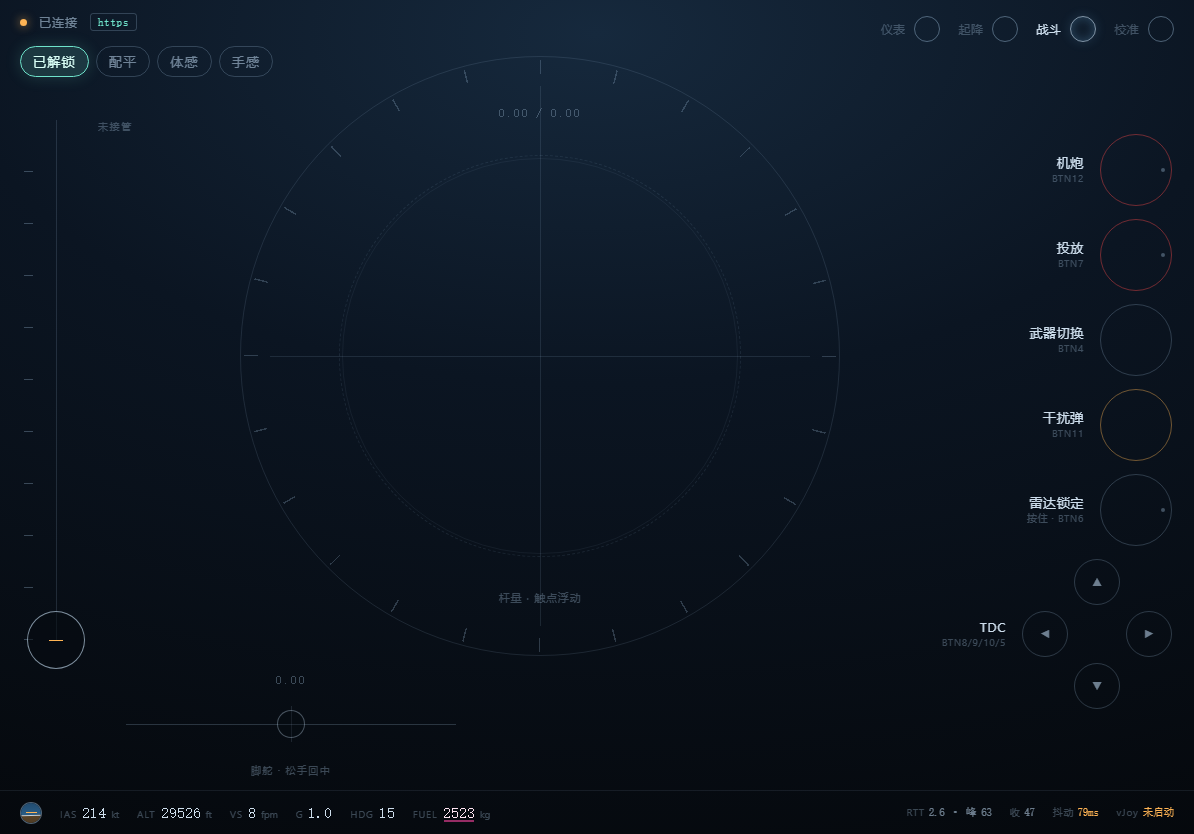
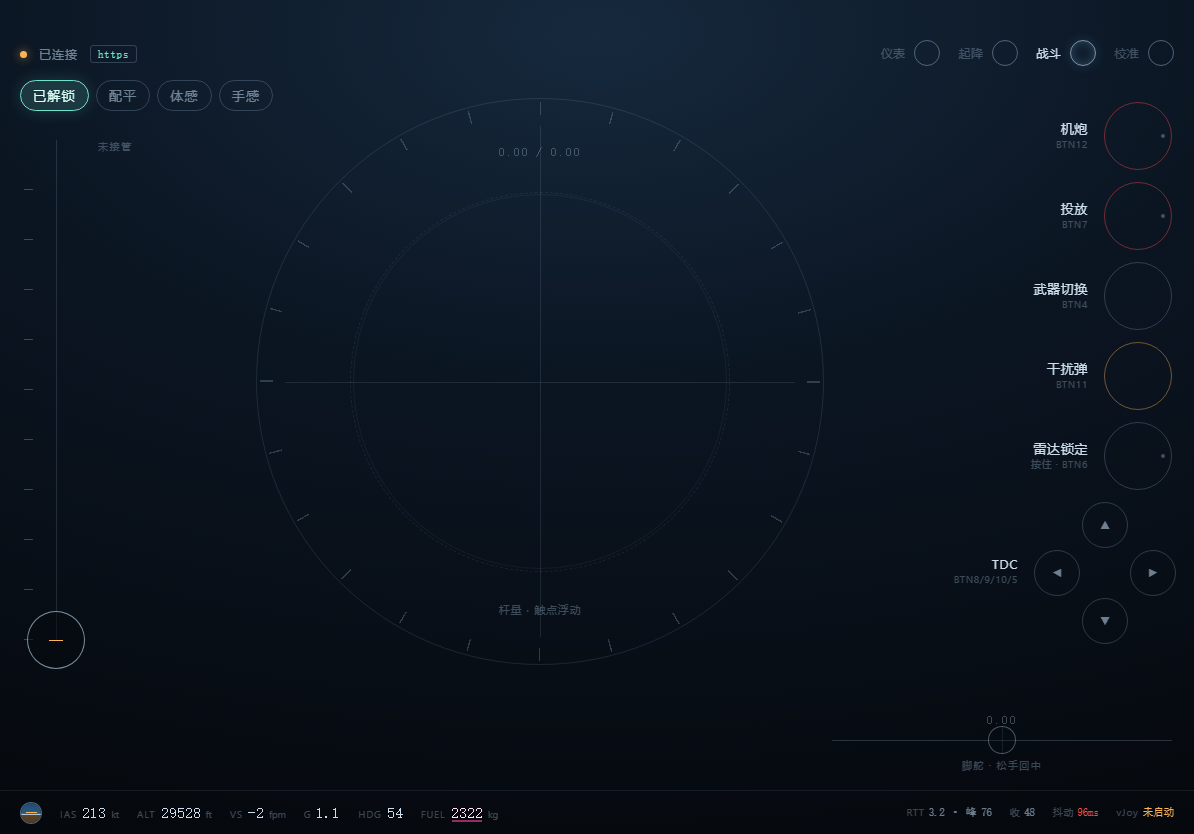
fix(yoke): 脚舵移到右下角，整体下移让开 iPad 状态栏
用户实测：主屏模式下时间和电量把顶上那一行盖住了；另外脚舵在左下会横穿
杆盘的下圆弧，也不符合"左手油门、右手杆和脚舵"的手位。

- 顶部整体下移：状态行 top 0→38、页签 16→40、开关行 46→80、杆盘 top 98。
  留 38px 才稳（iOS 横屏状态栏约 24–28px）。
- 脚舵从 left:126/top:672 改到 right:22/bottom:56，盒子高度 104→76。
  数值和说明改成贴着滑轨定位（top:calc(50% ∓ 26/19px)）—— 盒子矮了之后再
  用原来的 top:2 / bottom:0，数字会飘在离滑轨很远的地方。
- 右列圆按钮 72→68px、间距 13→12，TDC 格 46→42，并改成从 top:102 起排，
  保证战斗页最后一个元素（TDC，止于 638）不撞脚舵（702）。
- 油门条同步下移到 140、高度 500。

新增 4 条断言把这个版位钉住：顶部留出让开状态栏（≥34px）、脚舵贴右下角
（距右边缘 ≤32 且整体在杆盘右边）、脚舵不压按钮列、脚舵不压读数条。

验收 https 70 项 / http 66 项全过。

diff --git a/tools/yoke.html b/tools/yoke.html
@@ -54,7 +54,7 @@ body{ touch-action:none; }
      background:radial-gradient(135% 105% at 50% 4%, #16293d 0%, #0b1522 40%, #05080c 100%); }
 
 /* ---------- 顶部状态 ---------- */
-#hud{ position:absolute; left:0; right:0; top:0; height:44px; display:flex; z-index:12;
+#hud{ position:absolute; left:0; right:0; top:38px; height:32px; display:flex; z-index:12;
       align-items:center; gap:12px; padding:0 20px; pointer-events:none; }
 #dot{ width:7px; height:7px; border-radius:50%; background:rgba(160,180,200,.4); flex:0 0 auto; }
 #dot.ok{ background:var(--cyan); box-shadow:0 0 10px rgba(111,227,203,.8); }
@@ -65,7 +65,7 @@ body{ touch-action:none; }
       border:1px solid var(--line); border-radius:3px; color:var(--ink3); }
 
 /* 页签：一排细圆 + 左置标签，跟那套游戏右上角的功能圆同一套语言 */
-#tabs{ position:absolute; right:20px; top:16px; display:flex; align-items:center; z-index:12;
+#tabs{ position:absolute; right:20px; top:40px; display:flex; align-items:center; z-index:12;
        gap:18px; pointer-events:none; }
 #tabs .tb{ display:flex; align-items:center; gap:9px; background:none; border:0;
            padding:0; pointer-events:auto; color:var(--ink3);
@@ -77,7 +77,7 @@ body{ touch-action:none; }
                 0 0 12px rgba(120,190,240,.16); }
 
 /* ---------- 开关行（原来的顶栏 chip） ---------- */
-#ops{ position:absolute; left:20px; top:46px; display:flex; gap:7px; align-items:center; z-index:12; }
+#ops{ position:absolute; left:20px; top:80px; display:flex; gap:7px; align-items:center; z-index:12; }
 .chip{ font:400 11.5px/1 inherit; letter-spacing:.07em; color:var(--ink2);
        background:transparent; border:1px solid var(--line); border-radius:999px;
        padding:6px 12px; pointer-events:auto; }
@@ -140,7 +140,7 @@ body{ touch-action:none; }
 #app[data-page="pfd"] #deck, #app[data-page="calib"] #deck{ display:none; }
 
 /* 杆盘：同心细圈 + 十字。中心区让给左右两侧的控件，所以不是屏幕正中 */
-#colPad{ position:absolute; left:110px; right:224px; top:56px; height:min(72vh,600px);
+#colPad{ position:absolute; left:110px; right:224px; top:98px; height:min(68vh,580px);
          display:grid; place-items:center; min-width:0; }
 #pad{ position:relative; height:100%; aspect-ratio:1 / 1; max-width:100%; }
 #pad::before{ content:""; position:absolute; inset:0; border-radius:50%;
@@ -172,7 +172,7 @@ body{ touch-action:none; }
 #dotk.on{ opacity:1; }
 
 /* 左：油门（竖条 + 骑在上面的圆徽章，照那套画面的 % 圆做） */
-#thr{ position:absolute; left:24px; top:120px; width:64px; height:520px; }
+#thr{ position:absolute; left:24px; top:140px; width:64px; height:500px; }
 #thr::before{ content:""; position:absolute; left:50%; top:0; bottom:0; width:1px;
               margin-left:-.5px; background:rgba(168,200,228,.16); }
 #ticks{ position:absolute; left:0; top:0; bottom:0; width:9px; pointer-events:none;
@@ -191,24 +191,24 @@ body{ touch-action:none; }
 #thr.idle #thrVal{ color:var(--amber); }
 
 /* 左：脚舵（横条，松手回中） */
-#rud{ position:absolute; left:126px; top:672px; width:330px; height:104px; }
+#rud{ position:absolute; right:22px; bottom:56px; width:340px; height:76px; }
 #rudTrack{ position:absolute; left:0; right:0; top:50%; height:1px; margin-top:-.5px;
            background:rgba(168,200,228,.22); }
-#rudC{ position:absolute; left:50%; top:calc(50% - 18px); height:36px; width:1px;
+#rudC{ position:absolute; left:50%; top:calc(50% - 14px); height:28px; width:1px;
        background:rgba(168,200,228,.14); }
 #rudFill{ position:absolute; top:calc(50% - 1px); height:2px; left:50%; width:0;
           background:var(--blue); box-shadow:0 0 10px rgba(99,200,255,.7); }
 #rudKnob{ position:absolute; top:calc(50% - 14px); height:28px; width:28px; left:50%;
           margin-left:-14px; border-radius:50%; border:1px solid var(--line2);
           background:rgba(5,11,17,.5); }
-#rudVal{ position:absolute; left:0; right:0; top:2px; text-align:center;
+#rudVal{ position:absolute; left:0; right:0; top:calc(50% - 26px); text-align:center;
          font:400 12px/1 var(--mono); letter-spacing:.12em; color:var(--ink3); }
-#rudTag{ position:absolute; left:0; right:0; bottom:0; text-align:center;
+#rudTag{ position:absolute; left:0; right:0; top:calc(50% + 19px); text-align:center;
          font-size:10px; letter-spacing:.14em; color:var(--ink3); }
 
 /* ---------- 右列：圆按钮 + 左置双行标签 ---------- */
-#colTakeoff, #colCombat{ position:absolute; right:22px; top:92px; bottom:84px;
-  flex-direction:column; justify-content:center; align-items:flex-end; gap:13px; }
+#colTakeoff, #colCombat{ position:absolute; right:22px; top:102px;
+  flex-direction:column; justify-content:flex-start; align-items:flex-end; gap:12px; }
 #colTakeoff{ display:flex; }
 #colCombat{ display:none; }
 #app[data-page="combat"] #colTakeoff{ display:none; }
@@ -219,7 +219,7 @@ body{ touch-action:none; }
 .lb b{ display:block; font-weight:400; font-size:13px; color:var(--ink); letter-spacing:.05em; }
 .lb i{ display:block; font-style:normal; font-size:9.5px; color:var(--ink3); letter-spacing:.1em; }
 
-.k{ position:relative; flex:0 0 auto; width:72px; height:72px; border-radius:50%;
+.k{ position:relative; flex:0 0 auto; width:68px; height:68px; border-radius:50%;
     border:1px solid var(--line); background:transparent;
     transition:background .06s, border-color .06s, box-shadow .06s, transform .06s; }
 .k.sm{ width:46px; height:46px; }
@@ -238,7 +238,7 @@ body{ touch-action:none; }
 .k.hold.on::after{ background:var(--cyan); box-shadow:0 0 8px rgba(111,227,203,.9); }
 
 /* TDC 四向：一个 3×3 的小圆阵，只用上下左右四格 */
-#tdc{ display:grid; grid-template-columns:repeat(3,46px); grid-template-rows:repeat(3,46px);
+#tdc{ display:grid; grid-template-columns:repeat(3,42px); grid-template-rows:repeat(3,42px);
       gap:6px; }
 #tdc .k{ margin:0; }
 #tdc .k i{ position:absolute; inset:0; display:grid; place-items:center;

diff --git a/tools/check-yoke.py b/tools/check-yoke.py
@@ -100,6 +100,28 @@ with sync_playwright() as p:
     check("读数条高度合理", 36 <= geo["stripH"] <= 64, str(geo["stripH"]))
     check("油门圆徽章骑在竖条上", geo["knobInThr"], str(geo))
 
+    # iPad 主屏模式下状态栏（时间 / 电量）会盖在页面顶上，
+    # 顶上一排必须整体让开 —— 这条是用户实测撞出来的，别再挪回去。
+    topmost = pg.evaluate("""() => {
+      const els = [...document.querySelectorAll('#hud > *, #tabs > *, #ops > *')]
+        .filter(e => e.getBoundingClientRect().width > 0);   // 跳过 display:none 的隐藏 chip
+      return Math.min(...els.map(e => e.getBoundingClientRect().top));
+    }""")
+    check("顶部留出让开状态栏", topmost >= 34, f"top={topmost:.0f}px")
+
+    # 脚舵在右下：贴右边缘、在右侧按钮列下面、并且不压底部读数条
+    rl = pg.evaluate("""() => {
+      const b = s => document.querySelector(s).getBoundingClientRect();
+      const r = b('#rud'), col = b('#colTakeoff'), st = b('#strip'), pd = b('#pad');
+      return {right: Math.round(innerWidth - r.right), top: Math.round(r.top),
+              colBottom: Math.round(col.bottom), stripTop: Math.round(st.top),
+              padRight: Math.round(pd.right), rudLeft: Math.round(r.left)};
+    }""")
+    check("脚舵贴右下角", rl["right"] <= 32 and rl["rudLeft"] > rl["padRight"],
+          str(rl))
+    check("脚舵不压按钮列", rl["top"] >= rl["colBottom"] - 1, str(rl))
+    check("脚舵不压读数条", rl["top"] + 76 <= rl["stripTop"] + 1, str(rl))
+
     # ---- 四页（照 Pixel：仪表/起降/战斗/校准）
     def page_of():
         return pg.eval_on_selector("#app", "el=>el.getAttribute('data-page')")
